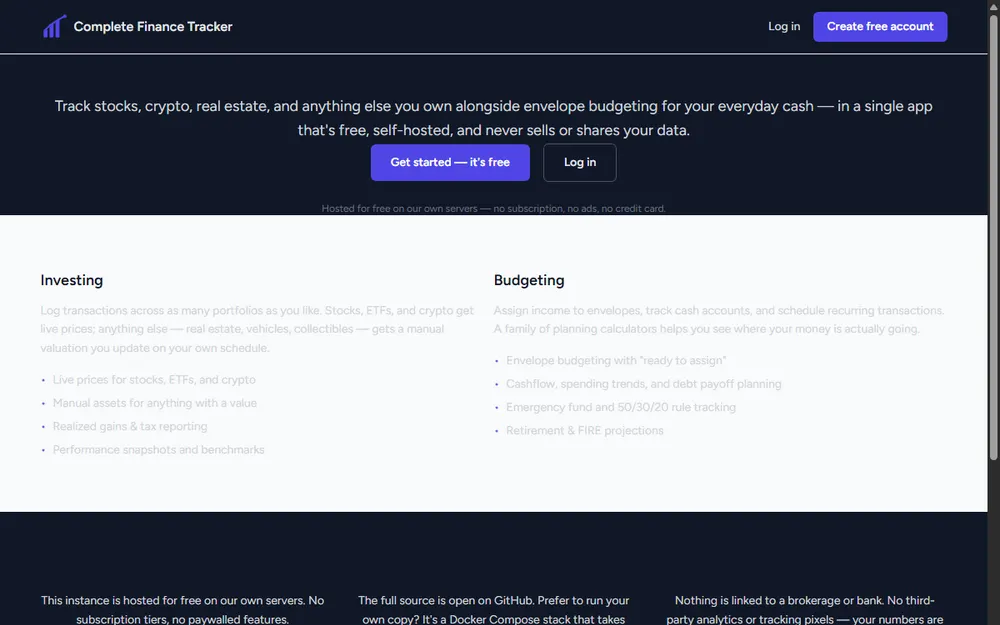
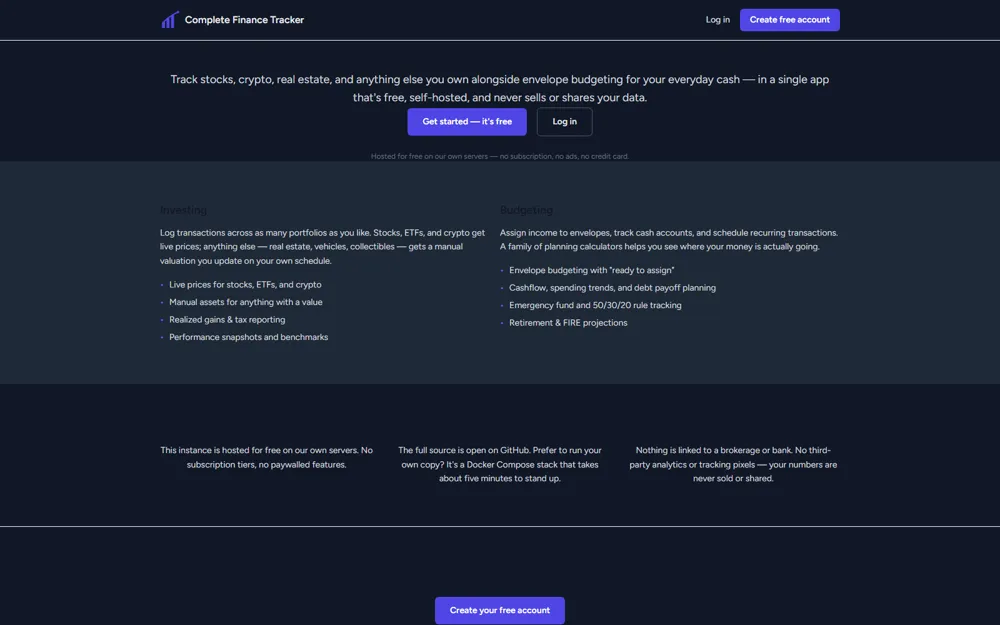
fix image, add tools

diff --git a/src/resources/views/work.blade.php b/src/resources/views/work.blade.php
@@ -18,7 +18,7 @@
 </section>
 
 <section class="py-20 px-6 bg-canvas">
-    <div class="max-w-4xl mx-auto grid md:grid-cols-2 gap-6">
+    <div class="max-w-6xl mx-auto grid md:grid-cols-2 lg:grid-cols-3 gap-5">
 
         @foreach([
             [
@@ -69,15 +69,23 @@
                 'github' => 'https://github.com/joshespi/espifam-site',
                 'image' => 'espifam',
             ],
+            [
+                'tag' => 'Web App',
+                'title' => "Espi's Tools",
+                'body' => 'A small collection of randomization utilities — weighted picker, passphrase generator, tip calculator, dice roller, coin flip, and a meme builder.',
+                'url' => 'https://tools.joshespi.com/',
+                'github' => 'https://github.com/joshespi/random-tools',
+                'image' => 'tools',
+            ],
         ] as $project)
-        <div class="bg-surface rounded-lg border border-border flex flex-col overflow-hidden {{ $loop->last && $loop->count % 2 !== 0 ? 'md:col-span-2' : '' }}">
+        <div class="bg-surface rounded-lg border border-border flex flex-col overflow-hidden">
             <img src="/images/work/{{ $project['image'] }}.webp" alt="Screenshot of {{ $project['title'] }}" loading="lazy"
-                 class="w-full h-48 object-cover object-top border-b border-border">
-            <div class="p-8 flex flex-col flex-1">
-                <p class="font-mono text-brand text-xs tracking-widest uppercase mb-3">{{ $project['tag'] }}</p>
-                <h3 class="text-xl font-bold mb-3">{{ $project['title'] }}</h3>
-                <p class="text-muted text-sm mb-6 flex-1">{{ $project['body'] }}</p>
-                <div class="flex items-center gap-6">
+                 class="w-full h-36 object-cover object-top border-b border-border">
+            <div class="p-6 flex flex-col flex-1">
+                <p class="font-mono text-brand text-xs tracking-widest uppercase mb-2">{{ $project['tag'] }}</p>
+                <h3 class="text-lg font-bold mb-2">{{ $project['title'] }}</h3>
+                <p class="text-muted text-sm mb-4 flex-1">{{ $project['body'] }}</p>
+                <div class="flex items-center gap-5">
                     <a href="{{ $project['url'] }}" target="_blank" rel="noopener noreferrer"
                        class="inline-flex items-center gap-2 font-mono text-sm text-brand hover:text-brand-dark transition-colors">
                         Visit site
